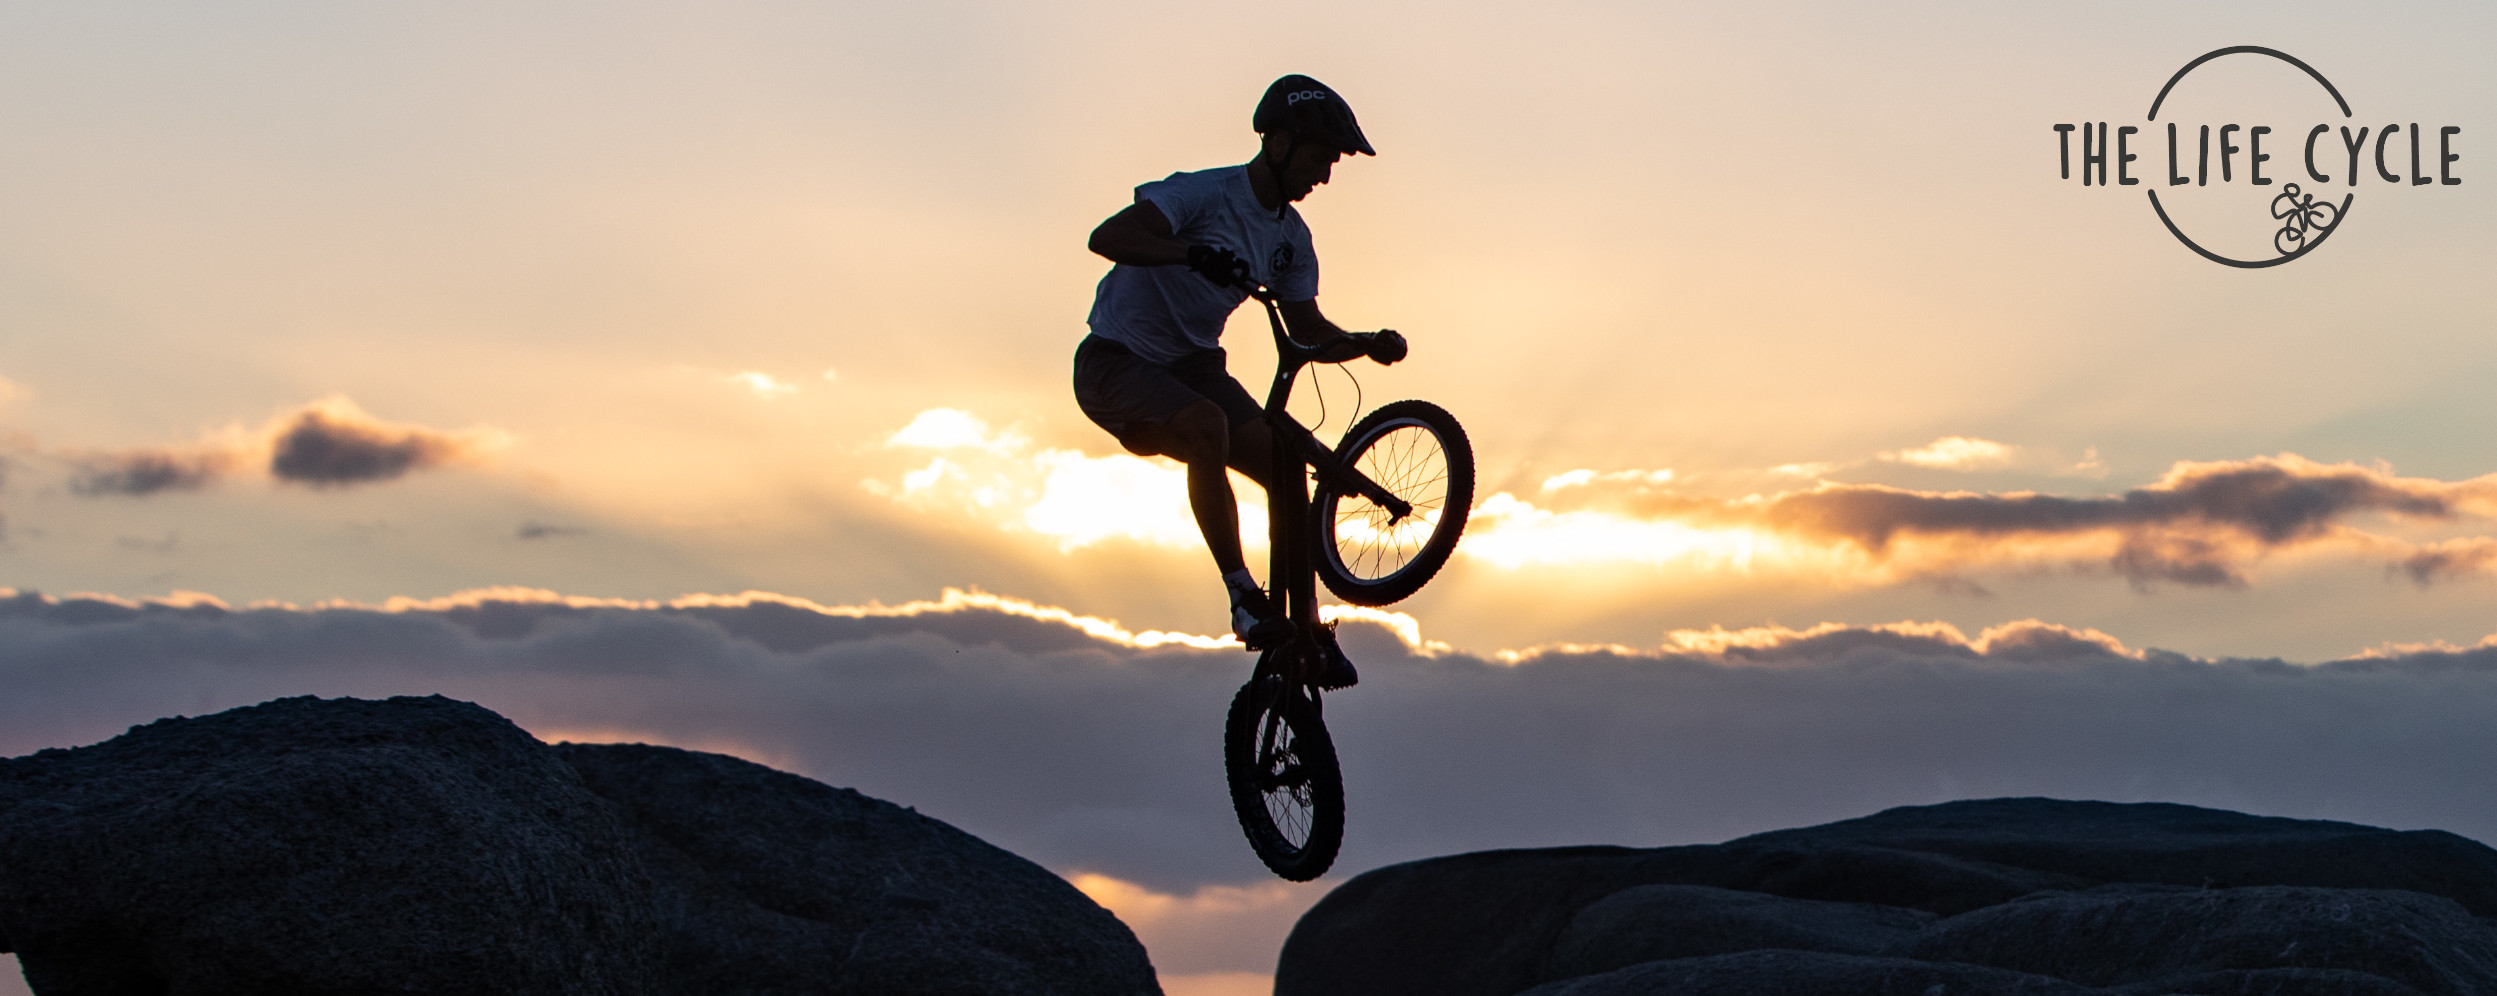
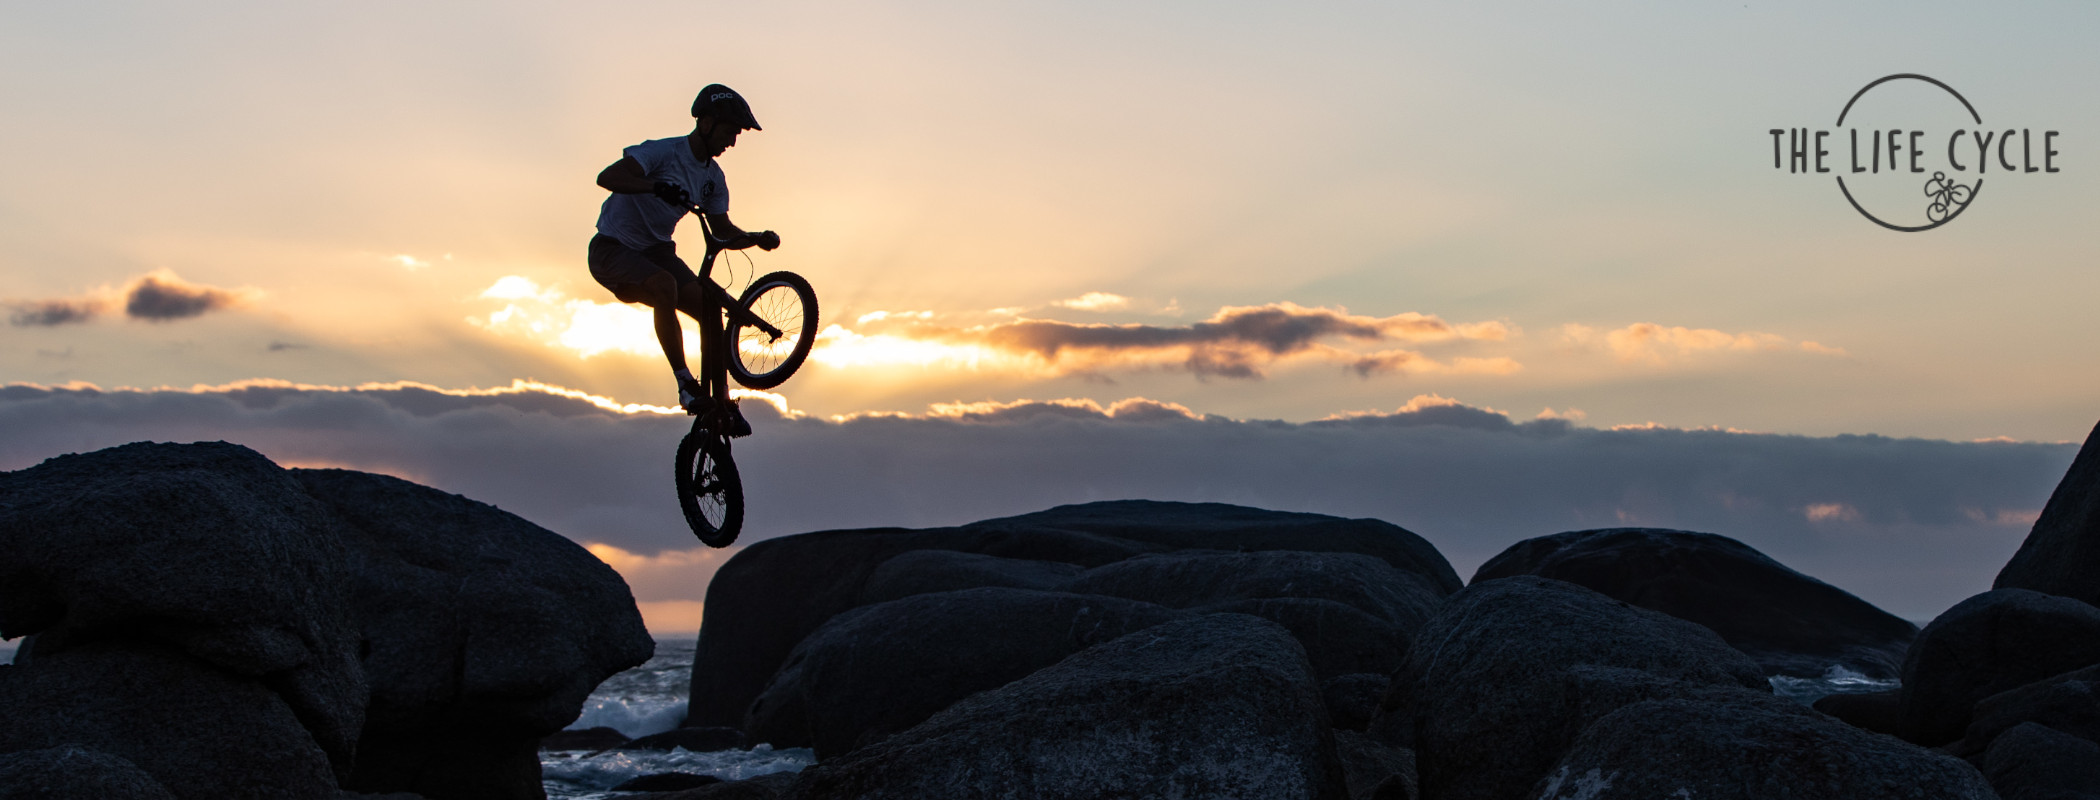
updated main carousel

diff --git a/my-app/src/CarouselMain.js b/my-app/src/CarouselMain.js
@@ -5,7 +5,9 @@ import pic2 from "./development/Images/pic2.jpg"
 import pic3 from "./development/Images/pic3.jpg"
 import pic4 from "./development/Images/pic4.jpg"
 import pic5 from "./development/Images/pic5.jpg"
-
+import pic6 from "./development/Images/pic6.jpg"
+import pic7 from "./development/Images/pic7.jpg"
+import pic8 from "./development/Images/pic8.jpg"
 
 import Carousel from "nuka-carousel";
 
@@ -17,6 +19,8 @@ const CarouselMain = () => {
         animation: "zoom",
         cellAlign: "center",
         scrollMode: "page",
+        autoplay: true,
+        autoplayInterval: 8000,
         style: {
             width: 1600,
             height: "50vh",
@@ -29,11 +33,14 @@ const CarouselMain = () => {
 
     return <div className="carousel carouselMain">
         <Carousel  {...styles}>
-            <img  alt="" src={pic3}/>
+            <img style={{height: "90%"}} alt="" src={pic3}/>
             <img  alt="" src={pic2}/>
             <img  alt="" src={pic4}/>
-            <img  alt="" src={pic1}/>
+            <img style={{height: "90%"}} alt="" src={pic1}/>
             <img  alt="" src={pic5}/>
+            <img  alt="" src={pic6}/>
+            <img style={{height: "90%"}} alt="" src={pic7}/>
+            <img style={{height: "90%"}} alt="" src={pic8}/>
         </Carousel>
     </div>
 

diff --git a/my-app/src/darkMode.scss b/my-app/src/darkMode.scss
@@ -7,7 +7,7 @@
 }
 .light {
   background-color: #b2b0b0;
-  color: #36464e;
+  color: #313e46;
 
 }
 
